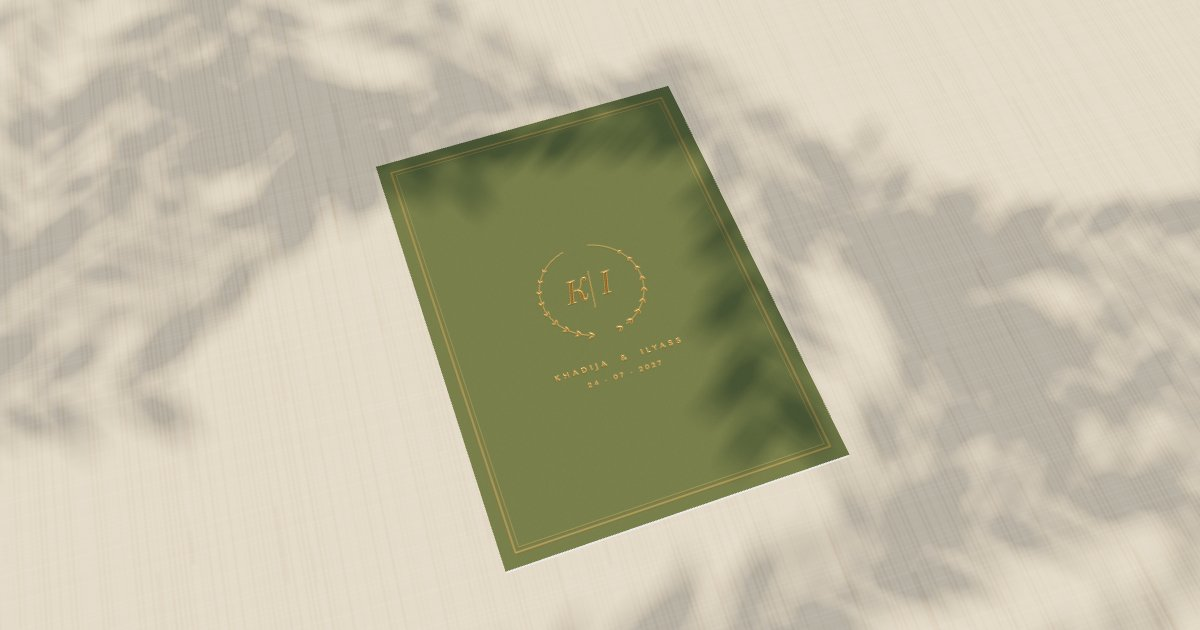
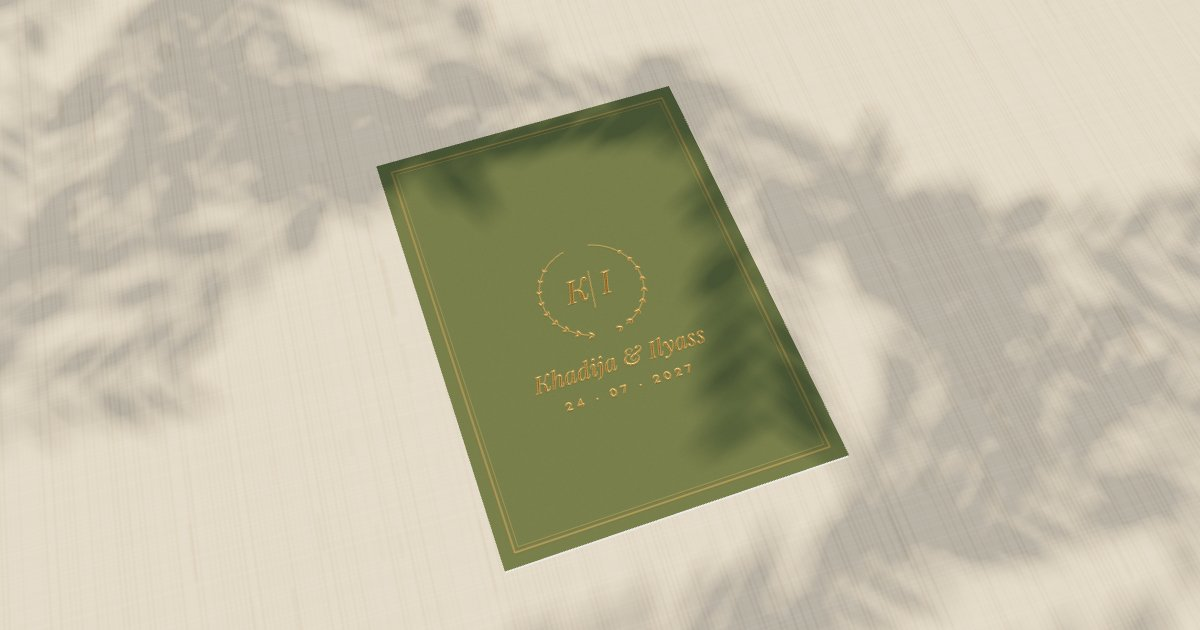
Carte : textes plus grands

diff --git a/index.html b/index.html
@@ -415,28 +415,27 @@ function buildPrints(){
     const {w,h} = P, c = w/2;
     P.stroke(g => g.rect(56,56,w-112,h-112), 2.4, 'foil');
     P.stroke(g => g.rect(74,74,w-148,h-148), 1, 'foil');
-    wreath(P, c, 250, 92, 'foil');
-    P.text('K', c-26, 268, 'italic 400 64px "Playfair Display"', 'ink', INK);
-    P.text('I', c+28, 268, 'italic 400 64px "Playfair Display"', 'ink', INK);
-    P.stroke(g => { g.moveTo(c+6,212); g.lineTo(c-6,292); }, 1.4, 'foil');
-    P.text('ومن آياته أن خلق لكم من أنفسكم أزواجا لتسكنوا إليها', c, 432, '400 38px "Aref Ruqaa"', 'ink', OLIVE);
-    P.text('وجعل بينكم مودة ورحمة', c, 486, '400 38px "Aref Ruqaa"', 'ink', OLIVE);
-    P.text('ENSEMBLE AVEC LEURS FAMILLES', c, 600, '500 27px Jost', 'ink', TERRA, 9);
-    P.text('ont la joie de vous convier à la célébration de leur mariage', c, 652, '300 30px Jost', 'ink', '#5f5a48');
-    P.text('Khadija', c, 860, 'italic 400 210px "Playfair Display"', 'ink', INK);
-    P.text('&', c, 980, 'italic 400 104px "Playfair Display"', 'foil');
-    P.text('Ilyass', c, 1170, 'italic 400 210px "Playfair Display"', 'ink', INK);
-    // date row between hairlines
-    const y = 1370;
-    P.stroke(g => { g.moveTo(230,y-62); g.lineTo(w-230,y-62); g.moveTo(230,y+40); g.lineTo(w-230,y+40); }, 1.2, 'foil');
-    P.stroke(g => { g.moveTo(c-150,y-40); g.lineTo(c-150,y+20); g.moveTo(c+150,y-40); g.lineTo(c+150,y+20); }, 1.2, 'foil');
-    P.text('SAMEDI', c-300, y, '500 30px Jost', 'ink', INK, 10);
-    P.text('24 JUILLET', c, y, '500 32px Jost', 'ink', TERRA, 8);
-    P.text('2027', c+300, y, '500 30px Jost', 'ink', INK, 10);
-    P.text('Votre présence sera notre plus beau cadeau', c, 1490, 'italic 400 30px "Playfair Display"', 'ink', '#6f6a58');
-    P.text('COMPLEXE', c, 1640, '500 26px Jost', 'ink', OLIVE, 12);
-    P.text('Dar Annassim', c, 1730, 'italic 400 84px "Playfair Display"', 'ink', TERRA);
-    sprig(P, c, 1835, 1, 'ink', '#7f8f68');
+    wreath(P, c, 240, 100, 'foil');
+    P.text('K', c-30, 262, 'italic 400 76px "Playfair Display"', 'ink', INK);
+    P.text('I', c+32, 262, 'italic 400 76px "Playfair Display"', 'ink', INK);
+    P.stroke(g => { g.moveTo(c+7,196); g.lineTo(c-7,290); }, 1.6, 'foil');
+    P.text('ومن آياته أن خلق لكم من أنفسكم أزواجا لتسكنوا إليها', c, 438, '400 54px "Aref Ruqaa"', 'ink', OLIVE);
+    P.text('وجعل بينكم مودة ورحمة', c, 514, '400 54px "Aref Ruqaa"', 'ink', OLIVE);
+    P.text('ENSEMBLE AVEC LEURS FAMILLES', c, 622, '500 36px Jost', 'ink', TERRA, 10);
+    P.text('ont la joie de vous convier à la célébration de leur mariage', c, 688, '300 42px Jost', 'ink', '#4f4a3a');
+    P.text('Khadija', c, 892, 'italic 400 200px "Playfair Display"', 'ink', INK);
+    P.text('&', c, 1004, 'italic 400 100px "Playfair Display"', 'foil');
+    P.text('Ilyass', c, 1186, 'italic 400 200px "Playfair Display"', 'ink', INK);
+    const y = 1380;
+    P.stroke(g => { g.moveTo(150,y-74); g.lineTo(w-150,y-74); g.moveTo(150,y+46); g.lineTo(w-150,y+46); }, 1.4, 'foil');
+    P.stroke(g => { g.moveTo(c-178,y-50); g.lineTo(c-178,y+22); g.moveTo(c+178,y-50); g.lineTo(c+178,y+22); }, 1.4, 'foil');
+    P.text('SAMEDI', c-345, y, '500 44px Jost', 'ink', INK, 8);
+    P.text('24 JUILLET', c, y, '500 48px Jost', 'ink', TERRA, 6);
+    P.text('2027', c+345, y, '500 44px Jost', 'ink', INK, 8);
+    P.text('Votre présence sera notre plus beau cadeau', c, 1515, 'italic 400 46px "Playfair Display"', 'ink', '#5a5546');
+    P.text('COMPLEXE', c, 1642, '500 38px Jost', 'ink', OLIVE, 14);
+    P.text('Dar Annassim', c, 1762, 'italic 400 116px "Playfair Display"', 'ink', TERRA);
+    sprig(P, c, 1850, 1.1, 'ink', '#7f8f68');
   });
   texBack = printJob(R, RH, '#55613f', P => {
     const {w,h} = P, c = w/2;
